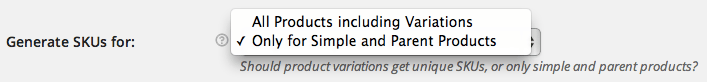
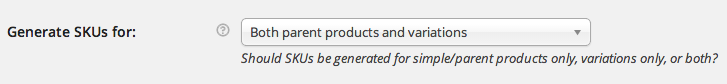
v1.1 update
adds ability to only generate SKUs for variations using the parent SKU
set by the admin

Changed region(s): [[0.2801, 0.1951, 0.9958, 0.9024], [0.0, 0.2927, 0.2178, 0.5854]]

diff --git a/woocommerce-product-sku-generator.php b/woocommerce-product-sku-generator.php
@@ -5,7 +5,7 @@
  * Description: Automatically generate SKUs for products using the product slug and (optionally) variation attributes
  * Author: SkyVerge
  * Author URI: http://www.skyverge.com/
- * Version: 1.0.2
+ * Version: 1.1
  * Text Domain: woocommerce-product-sku-generator
  * Domain Path: /i18n/languages/
  *
@@ -25,17 +25,21 @@
  if ( ! defined( 'ABSPATH' ) ) exit; // Exit if accessed directly
 
 /**
-* Plugin Description
-         *
- * Generate a SKU for new products that is equal to the product slug (simple products)
- * Optionally append attributes for a product variation to this if the product is variable
-                                                                                  * For a variable product whose parent is 'wordpress-tee-shirt', the SKU will use the parent slug, then append the attributes for each variation. If the shirt has a small variation in white, the SKU will be 'wordpress-tee-shirt-small-white'.
- * SKUs should be created when a product is saved or updated.
+ * Plugin Description
  *
+ * Generate a SKU for new products that is equal to the product slug (simple products).
+ * Optionally append attributes for a product variation to this if the product is variable.
+ * Or, set a SKU for a parent product and optionally append attributes to this for variation SKUs.
+ *
+ * For example, if parent SKUs are generated, a product with the slug 'wp-tee-shirt'
+ * will have a SKU of 'wp-tee-shirt'. If variation SKUs are also generated, this SKU will
+ * be used, and attributes will be appended. For a white tee shirt in small, the SKU will
+ * be 'wp-tee-shirt-small-white'. If only variation SKUs are generated, then the parent SKU
+ * will be set and used, and attributes will be appended to it.
  */
 
 /**
- * Generate a product SKU from the product slug
+ * Update product SKUs using the generated SKU
  *
  * @since 1.0
  */
@@ -50,20 +54,19 @@ add_action( 'woocommerce_process_product_meta', 'wc_sku_generator_update_product
 
 
 /**
- * Update product SKUs for parent products or all products (inc variations) depending on settings
+ * Generate a product SKU from the product slug and/or variation attributes
  *
  * @since 1.0
  */
 function wc_sku_generator_update_sku( $product ) {
 
-	$generate_variation_skus = get_option( 'wc_sku_generator_select' );
-
-	$sku = $product->get_post_data()->post_name;
+	$generate_skus = get_option( 'wc_sku_generator_select' );
 
 	// Only generate SKUs for product variations if enabled
-	if( 'all' == $generate_variation_skus ) {
+	if ( 'all' == $generate_skus ) {
+		$sku = $product->get_post_data()->post_name;
 
-		if( $product->product_type == 'variable' ) {
+		if ( $product->is_type( 'variable' ) ) {
 
 			foreach( $product->get_available_variations() as $variation ) {
 
@@ -81,9 +84,28 @@ function wc_sku_generator_update_sku( $product ) {
 			update_post_meta( $product->id, '_sku', $sku );
 		}
 
-	} else {
+	} elseif ( 'simple' == $generate_skus ) {
+		$sku = $product->get_post_data()->post_name;
 
 		update_post_meta( $product->id, '_sku', $sku );
+
+	} else {
+		$sku = $product->get_sku();
+
+		if ( $product->is_type( 'variable' ) ) {
+
+			foreach ( $product->get_available_variations() as $variation ) {
+
+				$variation_sku = implode( $variation['attributes'], '-' );
+				$variation_sku = str_replace( 'attribute_', '', $variation_sku );
+
+				update_post_meta( $variation['variation_id'], '_sku', $sku . '-' . $variation_sku );
+
+			}
+
+			update_post_meta( $product->id, '_sku', $sku );
+
+		}
 	}
 
 }
@@ -91,29 +113,30 @@ add_action( 'woocommerce_product_bulk_edit_save', 'wc_sku_generator_update_sku')
 
 
 /**
- * Disable SKUs temporarily so we can create our own label
+ * Only disable SKU field if parent SKUs are being generated
  *
  * @since 1.0.2
  */
-function wc_sku_generator_disable_sku_input() {
-	add_filter( 'wc_product_sku_enabled', '__return_false' );
+$sku_settings = get_option( 'wc_sku_generator_select' );
+
+if ( $sku_settings !== 'variations' ) {
+
+	//Disable SKUs temporarily so we can create our own label
+	function wc_sku_generator_disable_sku_input() {
+		add_filter( 'wc_product_sku_enabled', '__return_false' );
+	}
+	add_action( 'woocommerce_product_write_panel_tabs', 'wc_sku_generator_disable_sku_input' );
+
+	//Create a custom SKU label for Product Data
+	function wc_sku_generator_create_sku_label() {
+		global $thepostid;
+
+		?><p class="form-field"><label><?php esc_html_e( 'SKU', 'woocommerce' ); ?></label><span><?php echo esc_html( get_post_meta( $thepostid, '_sku', true ) ); ?></span></p><?php
+
+		add_filter( 'wc_product_sku_enabled', '__return_true' );
+	}
+	add_action( 'woocommerce_product_options_sku', 'wc_sku_generator_create_sku_label' );
 }
-add_action( 'woocommerce_product_write_panel_tabs', 'wc_sku_generator_disable_sku_input' );
-
-
-/**
- * Create a custom SKU label for Product Data
- *
- * @since 1.0.2
- */
-function wc_sku_generator_create_sku_label() {
-	global $thepostid;
-
-	?><p class="form-field"><label><?php esc_html_e( 'SKU', 'woocommerce' ); ?></label><span><?php echo esc_html( get_post_meta( $thepostid, '_sku', true ) ); ?></span></p><?php
-
-	add_filter( 'wc_product_sku_enabled', '__return_true' );
-}
-add_action( 'woocommerce_product_options_sku', 'wc_sku_generator_create_sku_label' );
 
 
 /**
@@ -132,18 +155,19 @@ function wc_sku_generator_add_settings( $settings ) {
 		if ( isset( $setting['id'] ) && 'woocommerce_review_rating_verification_required' === $setting['id'] ) {
 
 			$updated_settings[] = array(
-					'title' 	=> __( 'Generate SKUs for:', 'woocommerce' ),
-					'desc' 		=> '<br/>' . __( 'Should product variations get unique SKUs, or only simple and parent products?', 'woocommerce' ),
-					'id' 		=> 'wc_sku_generator_select',
-					'type' 		=> 'select',
-					'options' => array(
-						'all'  			=> __( 'All Products including Variations', 'woocommerce' ),
-						'simple' => __( 'Only for Simple or Parent Products', 'woocommerce' ),
-						),
-					'default'	=> 'all',
-					'css' 		=> 'min-width:300px;',
-					'desc_tip'	=>  __('Parent product SKUs for variable products will always be assigned, but you have the option to create your own variation SKUs.', 'woocommerce' ),
-
+				'title'    => __( 'Generate SKUs for:', 'woocommerce' ),
+				'desc'     => '<br/>' . __( 'Should SKUs be generated for simple/parent products only, variations only, or both?', 'woocommerce' ),
+				'id'       => 'wc_sku_generator_select',
+				'type'     => 'select',
+				'options'  => array(
+					'all'        => __( 'Both parent products and variations', 'woocommerce' ),
+					'simple'     => __( 'Only for simple or parent products', 'woocommerce' ),
+					'variations' => __( 'Only for variations of the product', 'woocommerce' ),
+				),
+				'default'  => 'all',
+				'class'    => 'chosen_select',
+				'css'      => 'min-width:300px;',
+				'desc_tip' => __( 'Choosing "Only variations" will allow you to set a parent SKU. The SKU field is disabled otherwise.', 'woocommerce' ),
 			);
 
 		}
